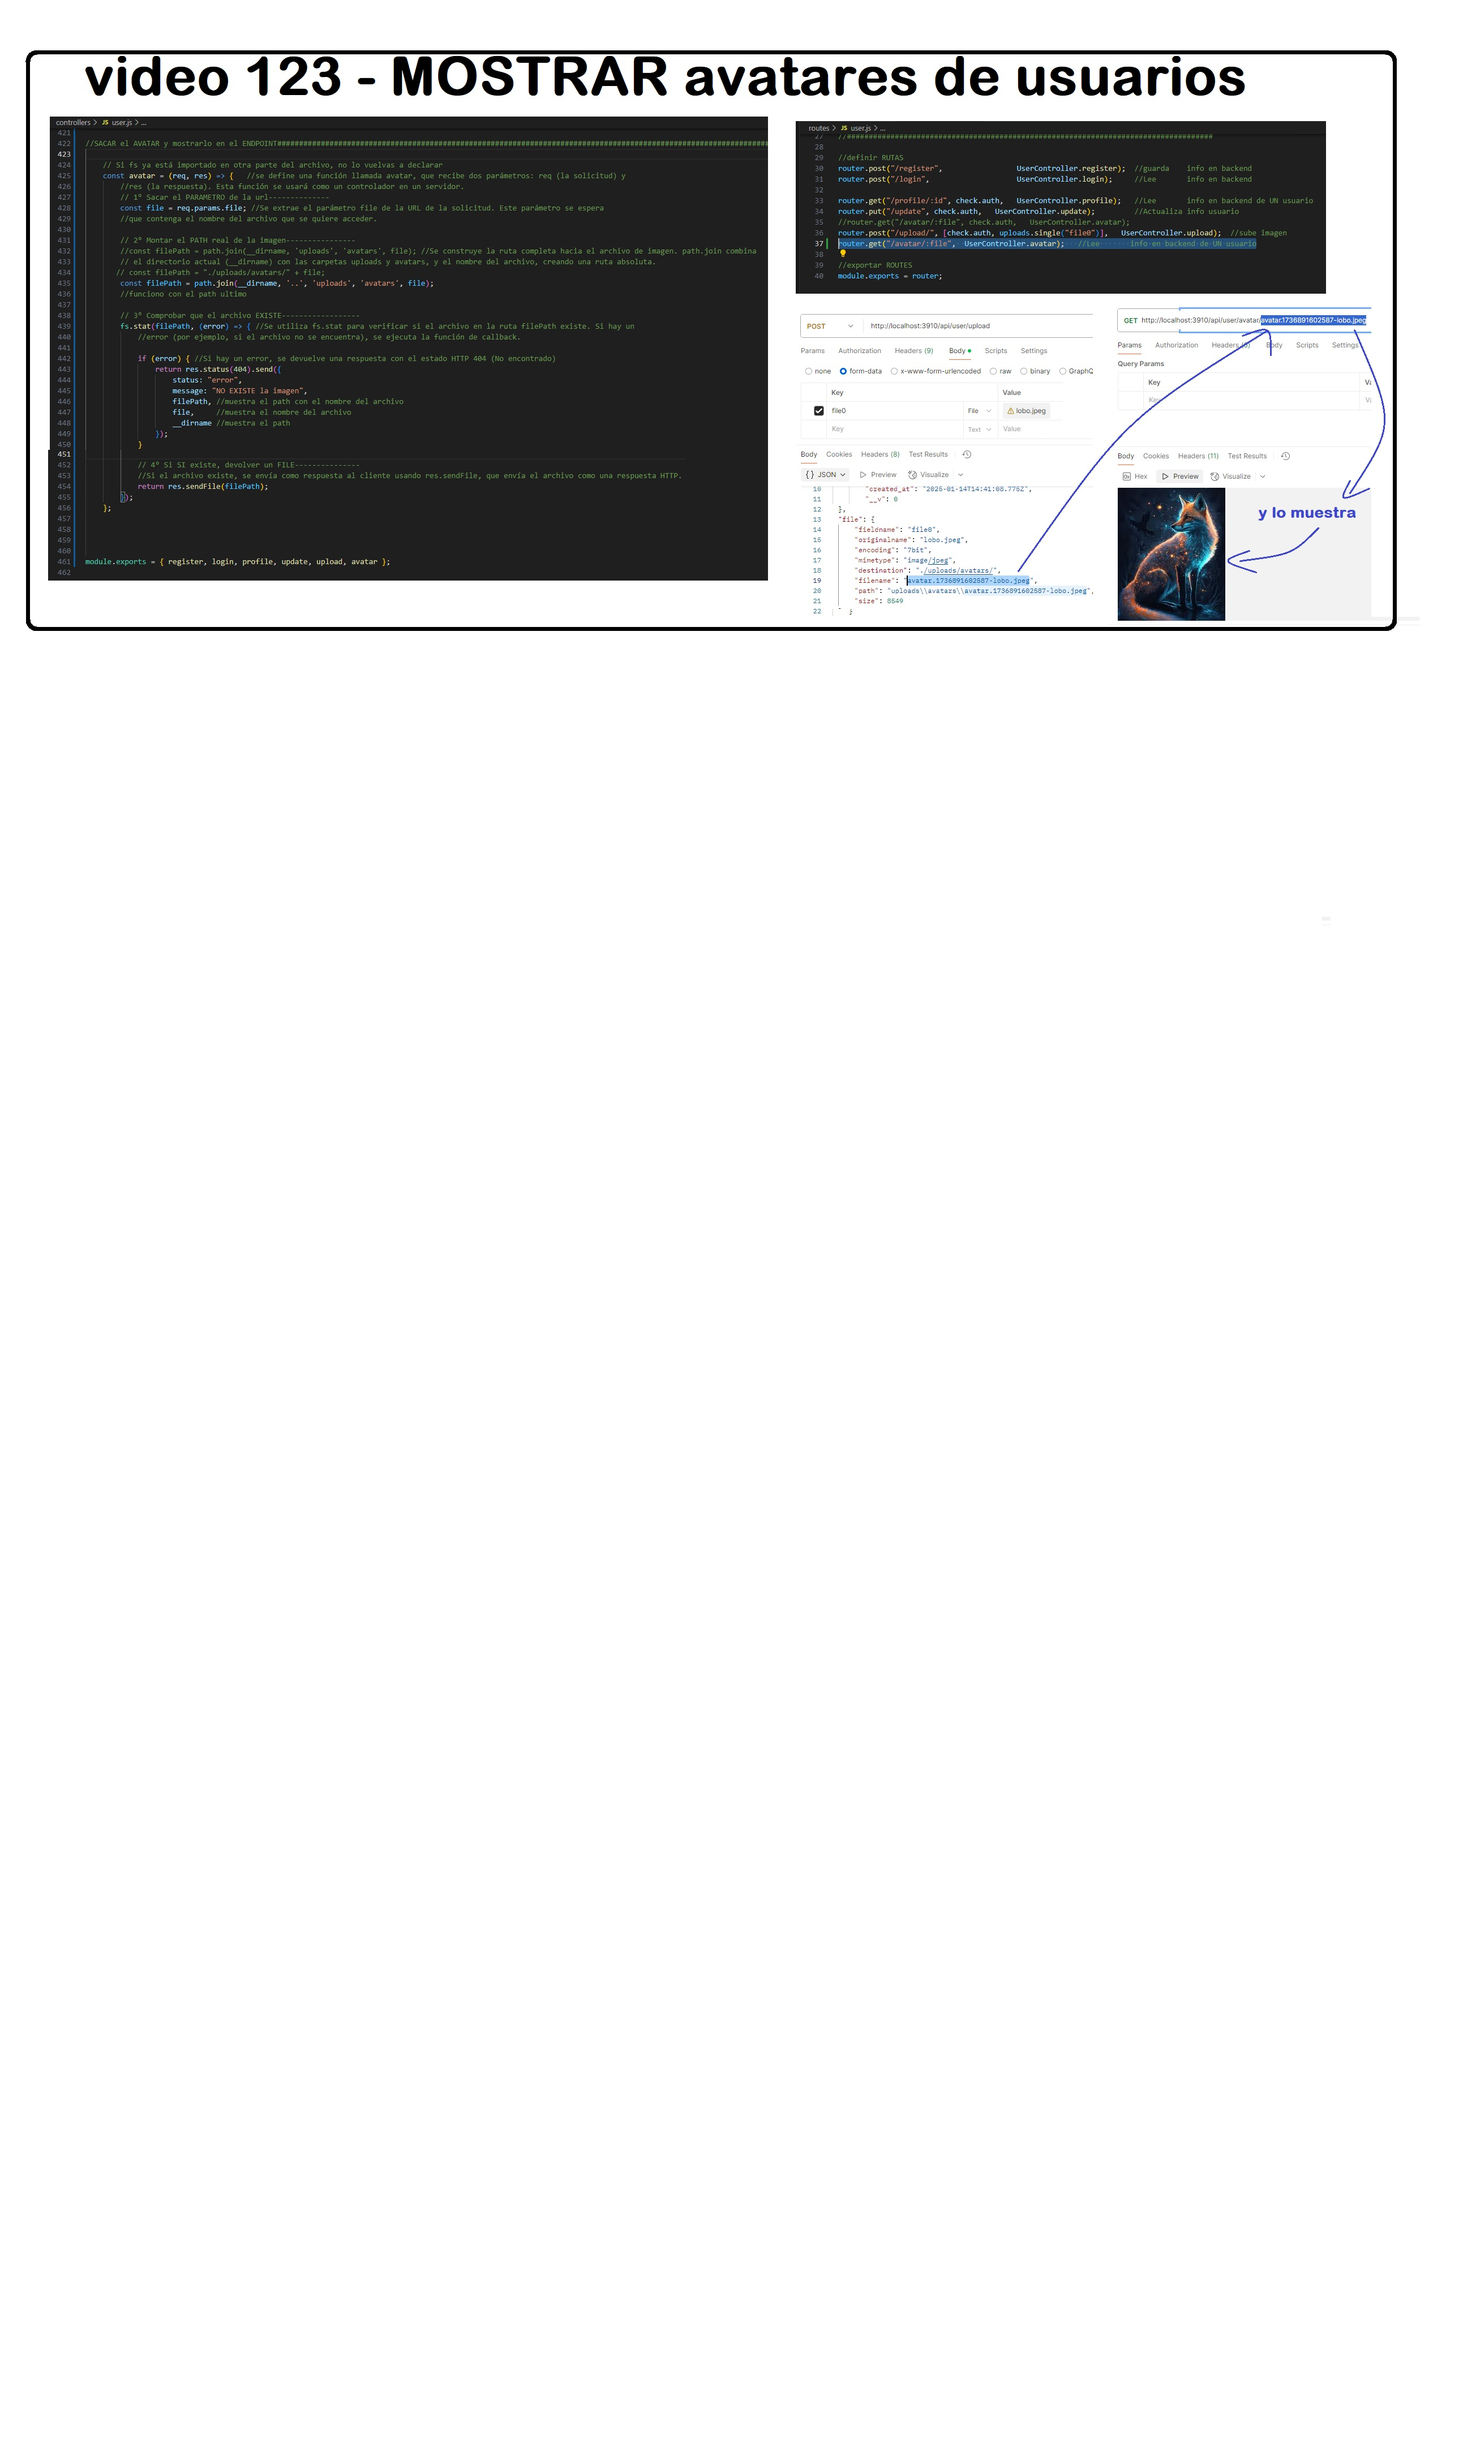
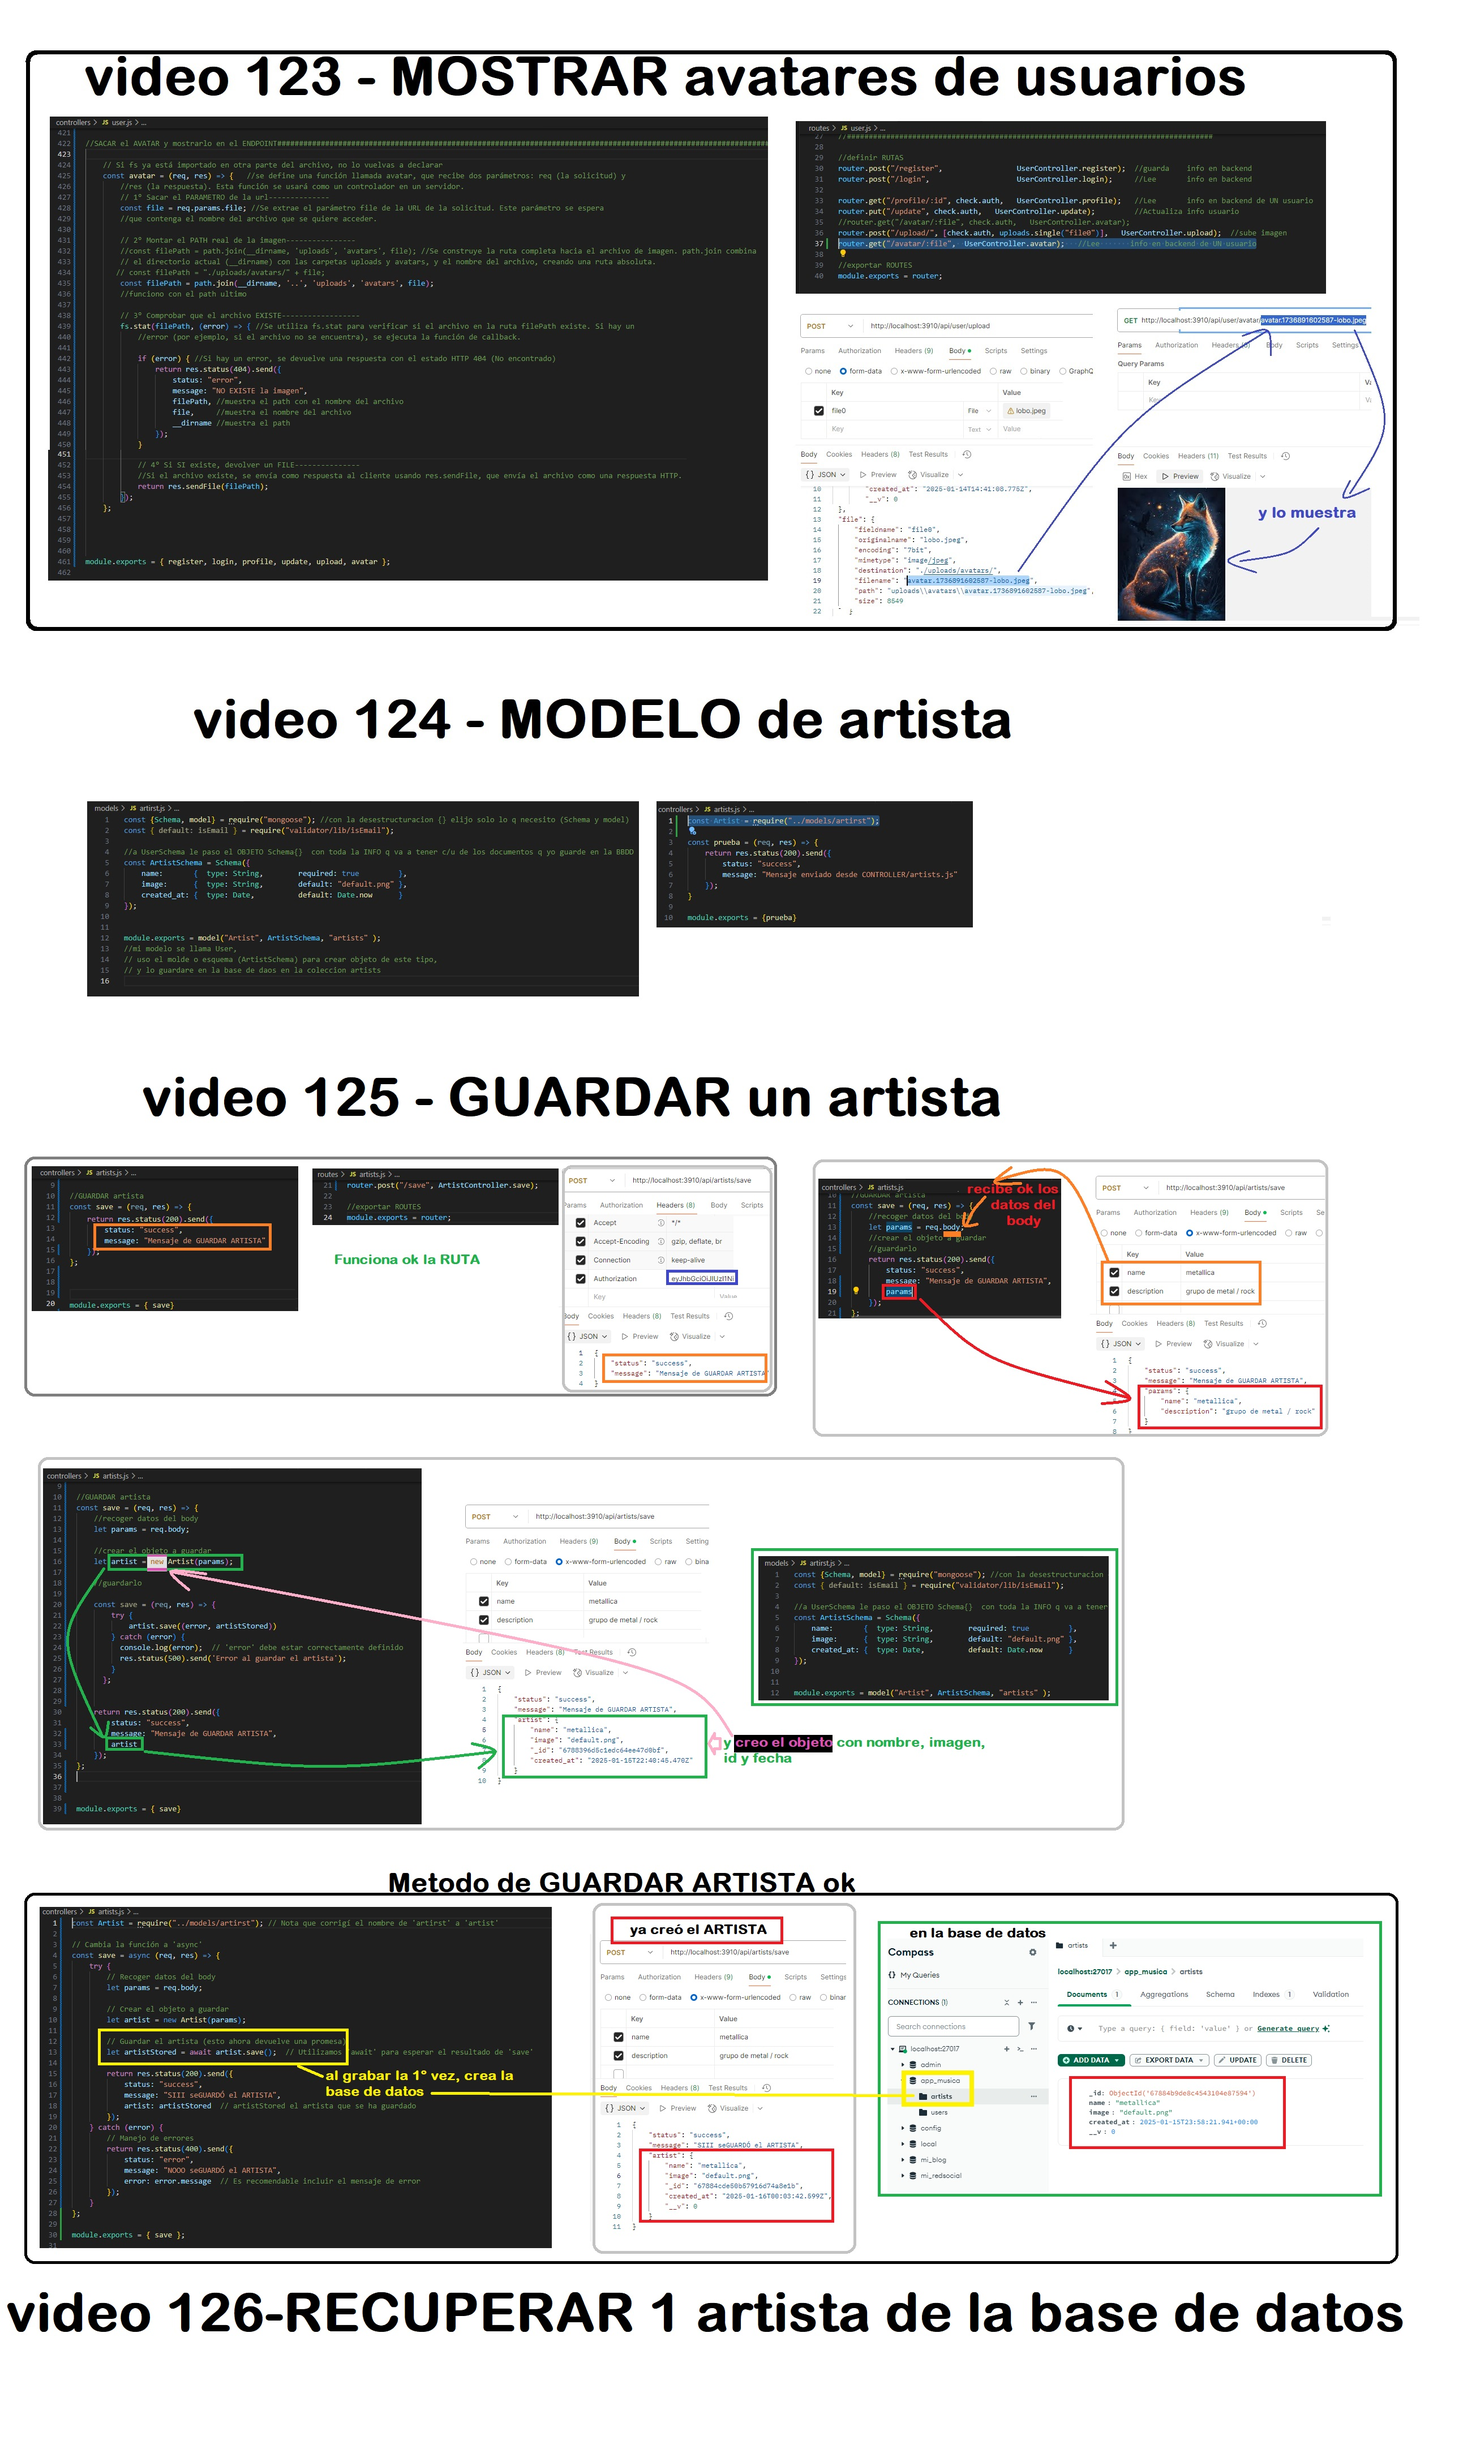
20° V.125 GUARDAR artista

diff --git a/routes/artists.js b/routes/artists.js
@@ -1,5 +1,6 @@
 //importar dependencias
 const express = require("express"); //importo express para crear las rutas de la API
+const check = require("../middlewares/auth");
 
 //cargar ROUTER
 const router = express.Router();//y ya tengo acceso al Router para CREAR mis RUTAS
@@ -11,11 +12,13 @@ const ArtistController = require("../controllers/artists");//y ya tengo acceso a
 //ArtistController es el objeto que contiene la función prueba (y cualquier otra que agregues en el futuro en artists.js). 
 // Y luego, en las rutas, puedes acceder a esas funciones usando ArtistController.<función>.
 
-const { prueba }       = require("../controllers/artists");//Desestructuración para importar SOLO y específicamente la función prueba del controlador de ARTISTAS
+//const { prueba }       = require("../controllers/artists");//Desestructuración para importar SOLO y específicamente la función prueba del controlador de ARTISTAS
 //es decir, De todo lo que se exporta en /controllers/artists.js, solo quiero la función prueba".
 
 //definir RUTAS
-router.get("/prueba", ArtistController.prueba) //ArtistController.prueba está accediendo a la función prueba definida en controllers/artists.js.
+//router.get("/prueba", ArtistController.prueba); //ArtistController.prueba está accediendo a la función prueba definida en controllers/artists.js.
+console.log("Cargando rutas de artistas...");  // Agrega este log para verificar
+router.post("/save", ArtistController.save);
 
 //exportar ROUTES
 module.exports = router;

diff --git a/controllers/artists.js b/controllers/artists.js
@@ -1,8 +1,30 @@
-const prueba = (req, res) => {
-    return res.status(200).send({
-        status: "success",
-        message: "Mensaje enviado desde CONTROLLER/artists.js"
-    });
-}
+const Artist = require("../models/artirst"); // Nota que corrigí el nombre de 'artirst' a 'artist'
 
-module.exports = {prueba}
+// Cambia la función a 'async'
+const save = async (req, res) => {
+    try {
+        // Recoger datos del body
+        let params = req.body;
+
+        // Crear el objeto a guardar
+        let artist = new Artist(params);
+
+        // Guardar el artista (esto ahora devuelve una promesa)
+        let artistStored = await artist.save();  // Utilizamos 'await' para esperar el resultado de 'save'
+
+        return res.status(200).send({
+            status: "success",
+            message: "SIII seGUARDÓ el ARTISTA",
+            artist: artistStored  // artistStored el artista que se ha guardado
+        });
+    } catch (error) {
+        // Manejo de errores
+        return res.status(400).send({
+            status: "error",
+            message: "NOOO seGUARDÓ el ARTISTA",
+            error: error.message  // Es recomendable incluir el mensaje de error
+        });
+    }
+};
+
+module.exports = { save };

diff --git a/models/artirst.js b/models/artirst.js
@@ -1,0 +1,15 @@
+const {Schema, model} = require("mongoose"); //con la desestructuracion {} elijo solo lo q necesito (Schema y model)
+const { default: isEmail } = require("validator/lib/isEmail");
+
+//a UserSchema le paso el OBJETO Schema{}  con toda la INFO q va a tener c/u de los documentos q yo guarde en la BBDD 
+const ArtistSchema = Schema({
+    name:       {  type: String,        required: true         },    
+    image:      {  type: String,        default: "default.png" },
+    created_at: {  type: Date,          default: Date.now      }
+});
+
+
+module.exports = model("Artist", ArtistSchema, "artists" );
+//mi modelo se llama User, 
+// uso el molde o esquema (ArtistSchema) para crear objeto de este tipo, 
+// y lo guardare en la base de daos en la coleccion artists 
